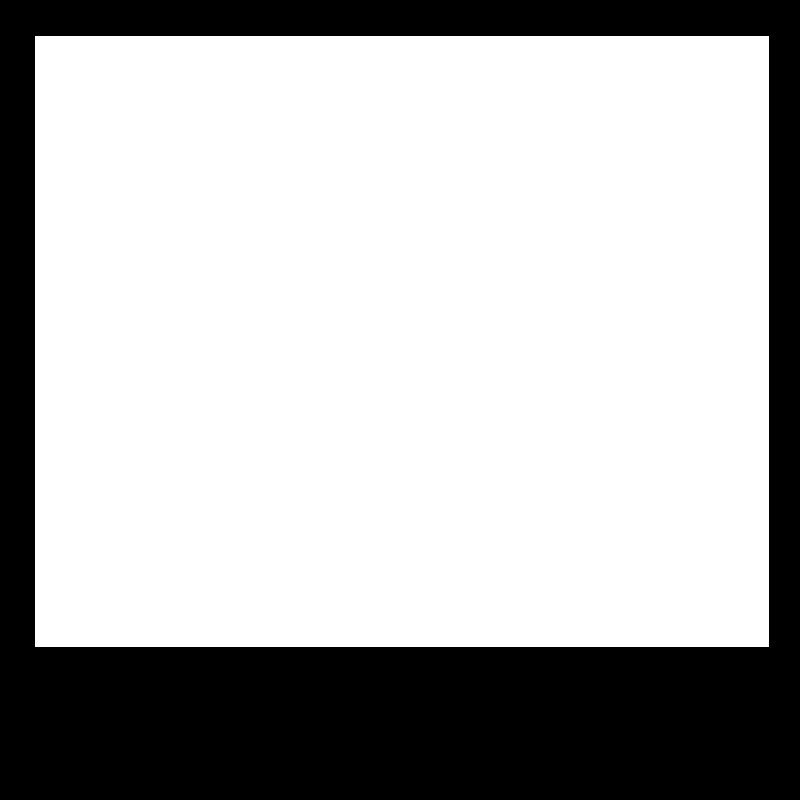
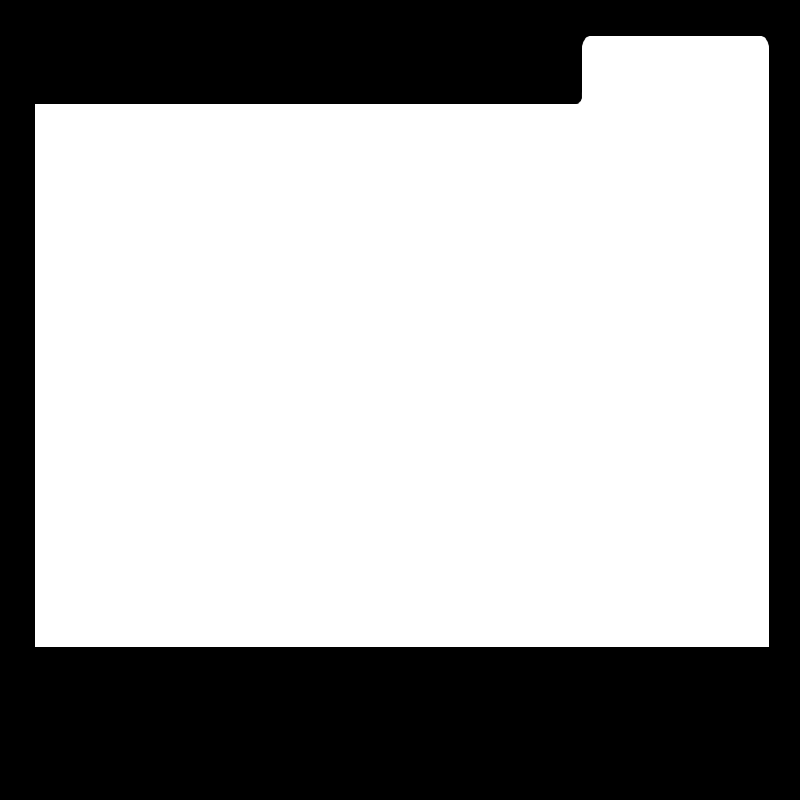
iphone: the playlist folders' frame is shaped like a folder
The window of the folder frame now has a tab at the top right, so the cover reads as a folder.
The bar with the name is where it was, so the lettering is unchanged.

Changed region(s): [[0.0312, 0.0312, 0.75, 0.1562]]

diff --git a/RPM.iOS/Modules/RPMSharedUI/Sources/RPMSharedUI/FolderFrame.swift b/RPM.iOS/Modules/RPMSharedUI/Sources/RPMSharedUI/FolderFrame.swift
@@ -6,9 +6,10 @@ import RPMDesign
 /// The frame on the cover of one of the app's own playlist folders, lettered with the folder's name.
 ///
 /// It is a different drawing from a list's frame (``PlaylistFrame``), so a folder does not look like
-/// one more list: a black square with a window cut out of it, and a bar under the window where the
-/// folder's name is set in the middle (``RPMDesign/FolderFrameMetrics``). The folder's photograph
-/// shows through the window (`PlaylistPhotos.folderCover`).
+/// one more list: a black square with a folder-shaped window cut out of it (a tab at the top right),
+/// and a bar under the window where the folder's name is set in the middle
+/// (``RPMDesign/FolderFrameMetrics``). The folder's photograph shows through the window
+/// (`PlaylistPhotos.folderCover`).
 ///
 /// The drawing is inked in the folder's two colours as a list's frame is: its black in the border
 /// colour, and the name in the lettering colour. The window stays transparent.

diff --git a/RPM.iOS/Modules/RPMDesign/Sources/RPMDesign/FolderFrameMetrics.swift b/RPM.iOS/Modules/RPMDesign/Sources/RPMDesign/FolderFrameMetrics.swift
@@ -3,8 +3,9 @@ import CoreGraphics
 /// Where a folder's name goes on the folder frame (`FolderFrame.png`): centred in the black bar under
 /// the window, on one line.
 ///
-/// The drawing is 800 pixels square. Its window runs from 35 to 768 across and from 36 to 646 down,
-/// and the bar below the window runs from 647 to the bottom edge. Every number here is a share of the
+/// The drawing is 800 pixels square. Its window is the shape of a folder: 35 to 768 across, 104 to
+/// 646 down, with a tab at the top right from 582 to 768 across that reaches up to 36. The bar below
+/// the window runs from 647 to the bottom edge. Every number here is a share of the
 /// square, so the same rule sets the name at any size. The Android app reads the same numbers
 /// (`FolderFrameMetrics.kt`); change both together.
 public enum FolderFrameMetrics {
